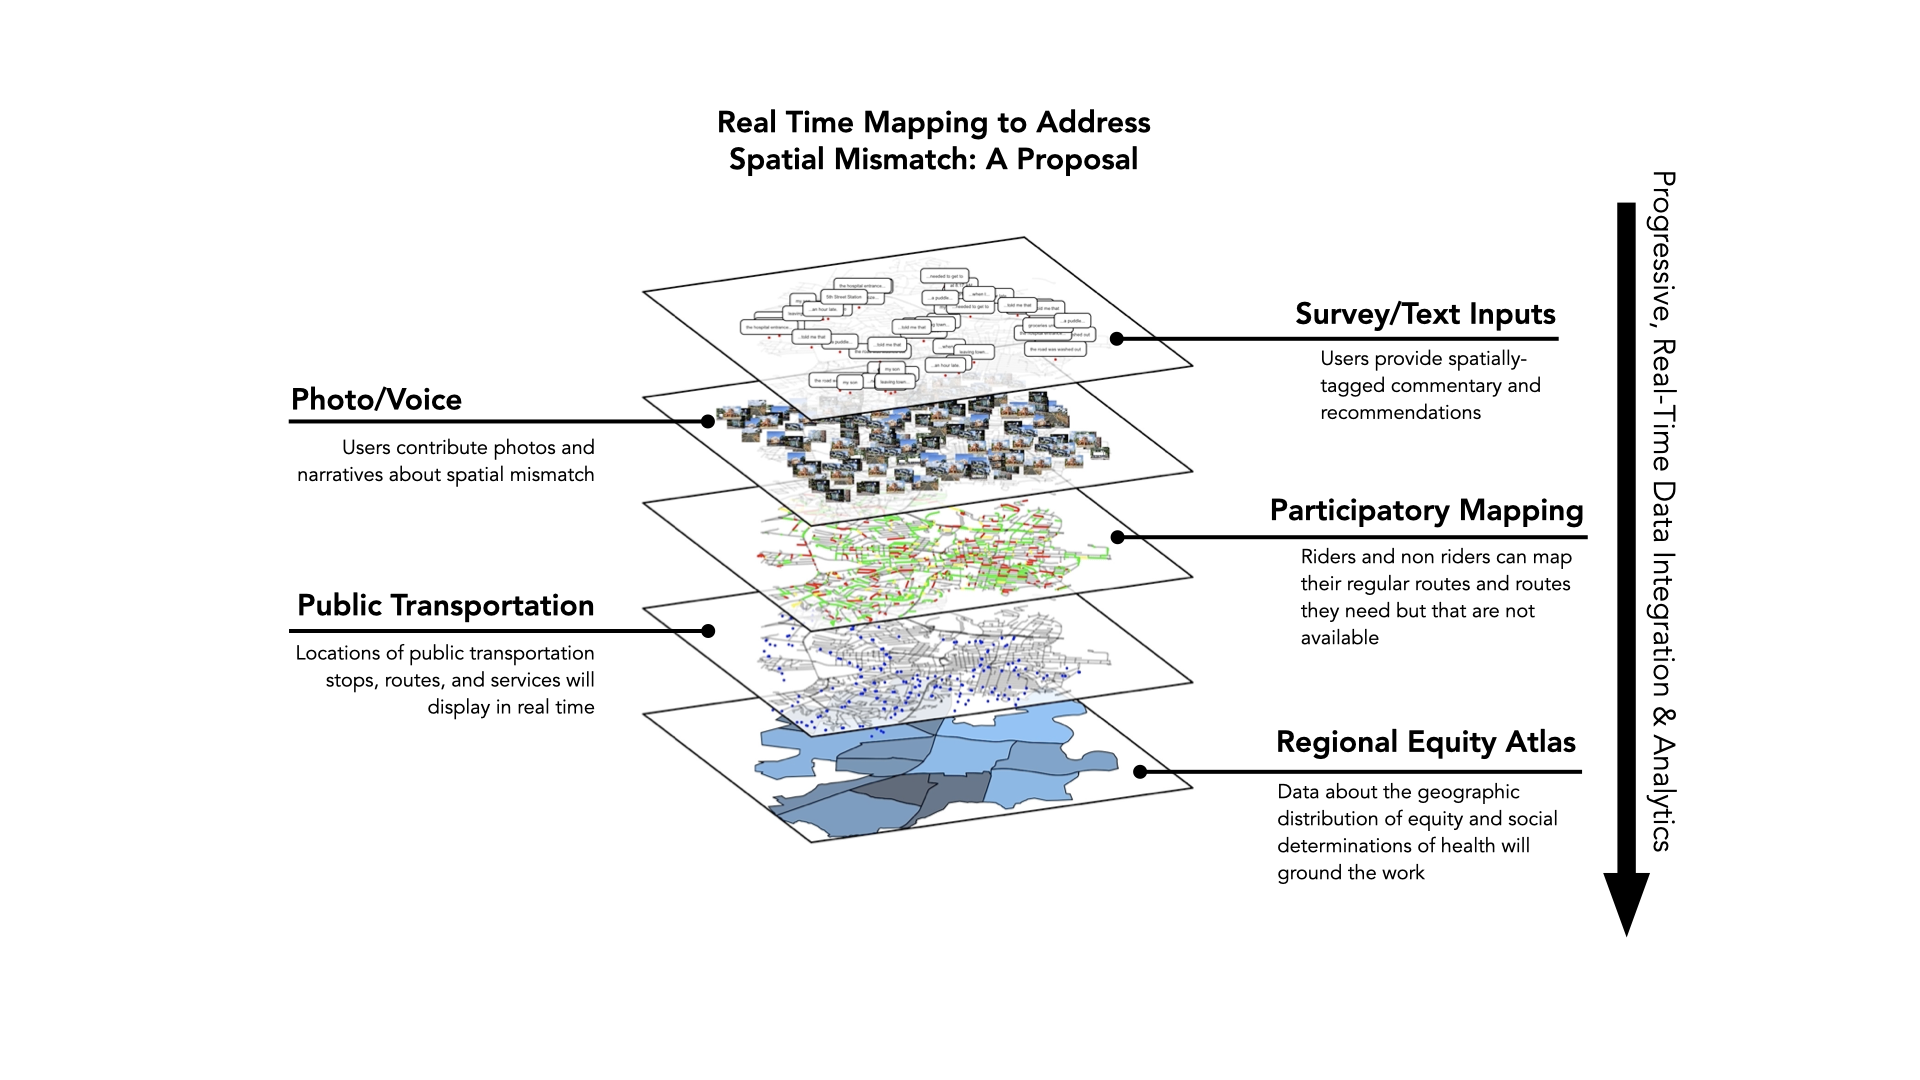
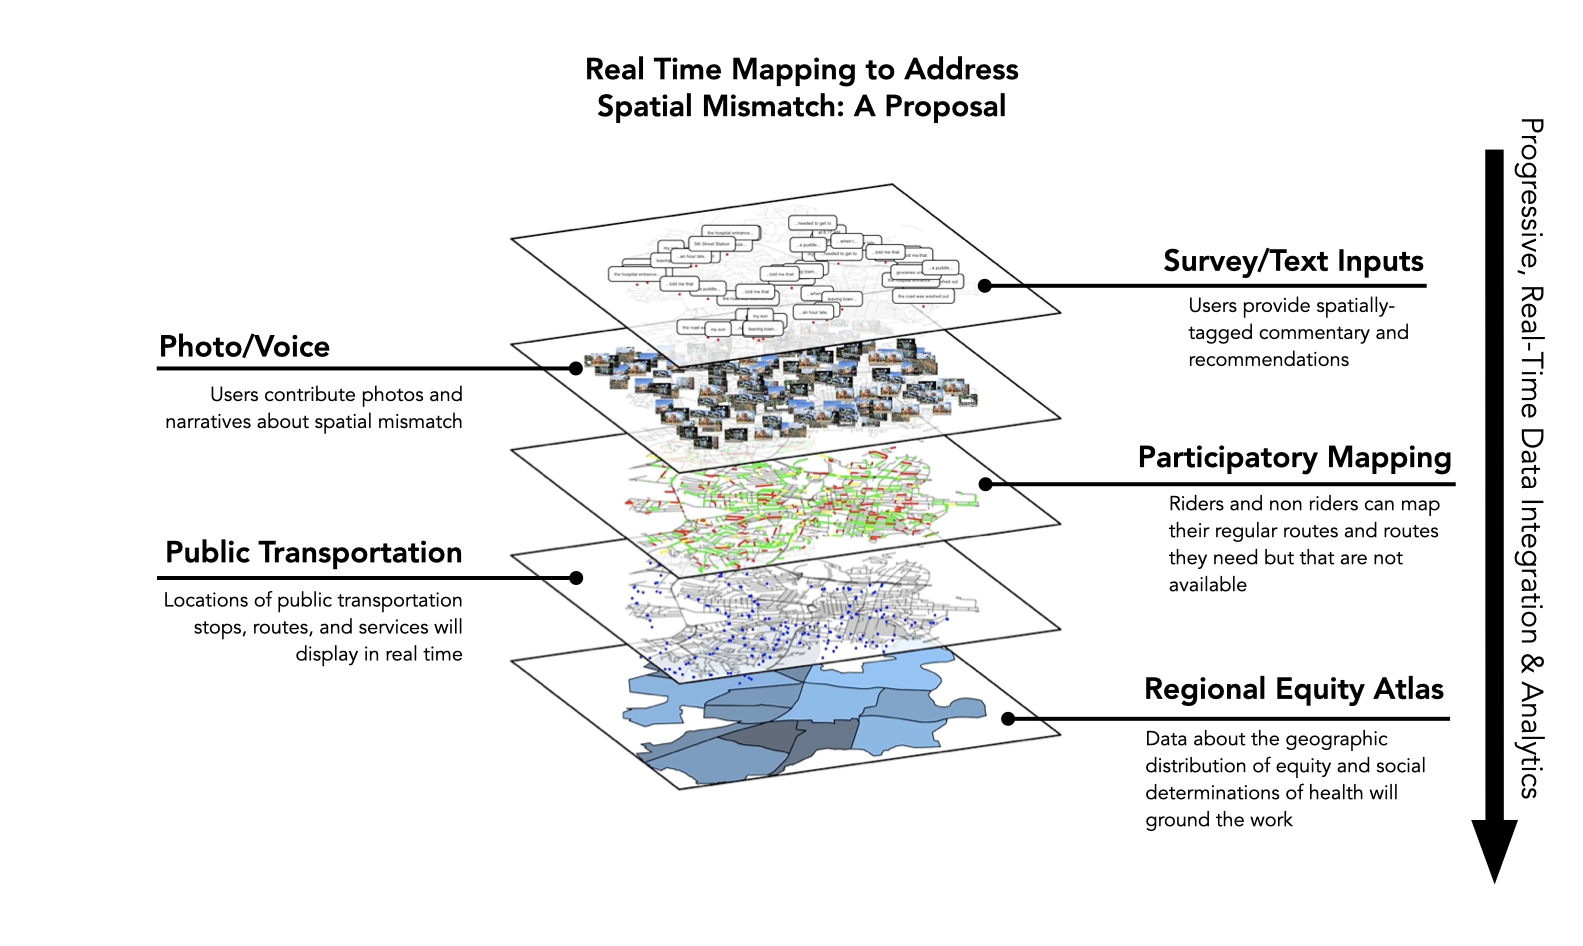
update stacked map

Changed region(s): [[0.0929, 0.1226, 0.9905, 0.9197], [0.3714, 0.0613, 0.65, 0.1839]]

diff --git a/projects/static-viz/index.html b/projects/static-viz/index.html
@@ -77,7 +77,7 @@
                         <br> <br>
 
 
-                        <img src="../../images/StackedMaps.001.jpeg" class="img-fluid">
+                        <img src="../../images/StackedMaps.001.png" class="img-fluid">
 
                         <br>
                         <br>
